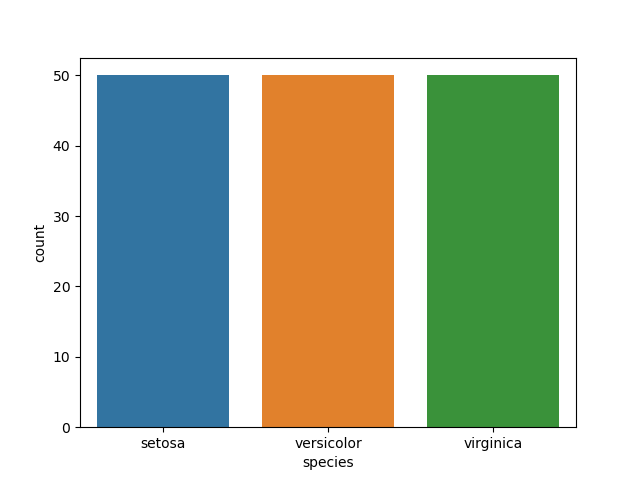
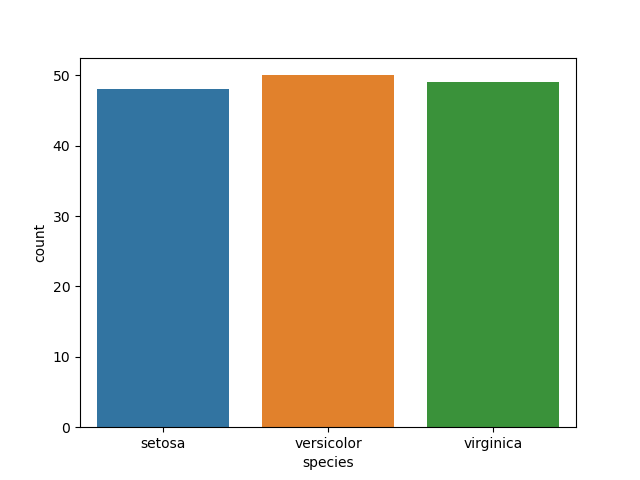
Finished Pre EDA; Removed duplicated rows; re-did summary & countplot

Changed region(s): [[0.125, 0.1562, 0.375, 0.1875], [0.6562, 0.1562, 0.875, 0.1875]]

diff --git a/analysis.py b/analysis.py
@@ -21,13 +21,6 @@ print(iris.species.unique())
 # View data types
 print(iris.dtypes)
 
-# Generate descriptive statistics summary of dataset
-print(iris.describe())
-
-# Save summary as .txt file
-with open('iris_summary.txt', 'w') as file:
-    file.write(iris.describe().to_string())
-
 # Check for missing values
 print(iris.isnull().sum())
 
@@ -37,6 +30,16 @@ print(iris.duplicated().sum())
 # View duplicated rows
 print(iris[iris.duplicated()])
 
+# Drop duplicates
+iris_df = iris.drop_duplicates()
+
 # Check for balance in the target variable
-sns.countplot(x ='species', hue = "species", data = iris)
+sns.countplot(x ='species', hue = "species", data = iris_df)
 plt.show()
+
+# Generate descriptive statistics summary of dataset
+print(iris_df.describe())
+
+# Save summary as .txt file
+with open('iris_summary.txt', 'w') as file:
+    file.write(iris_df.describe().to_string())
